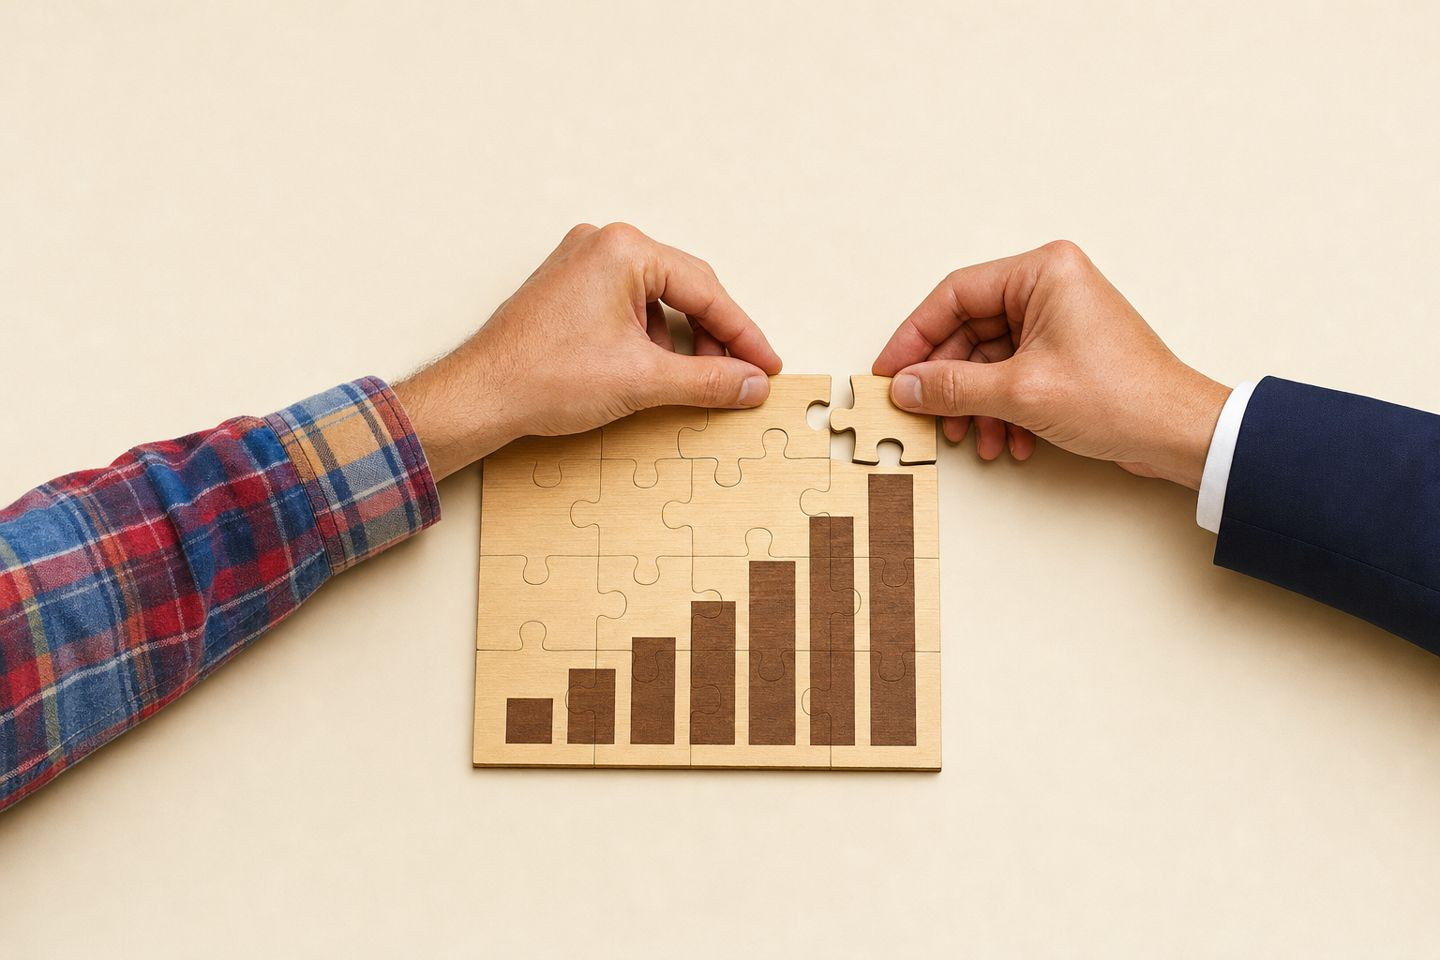
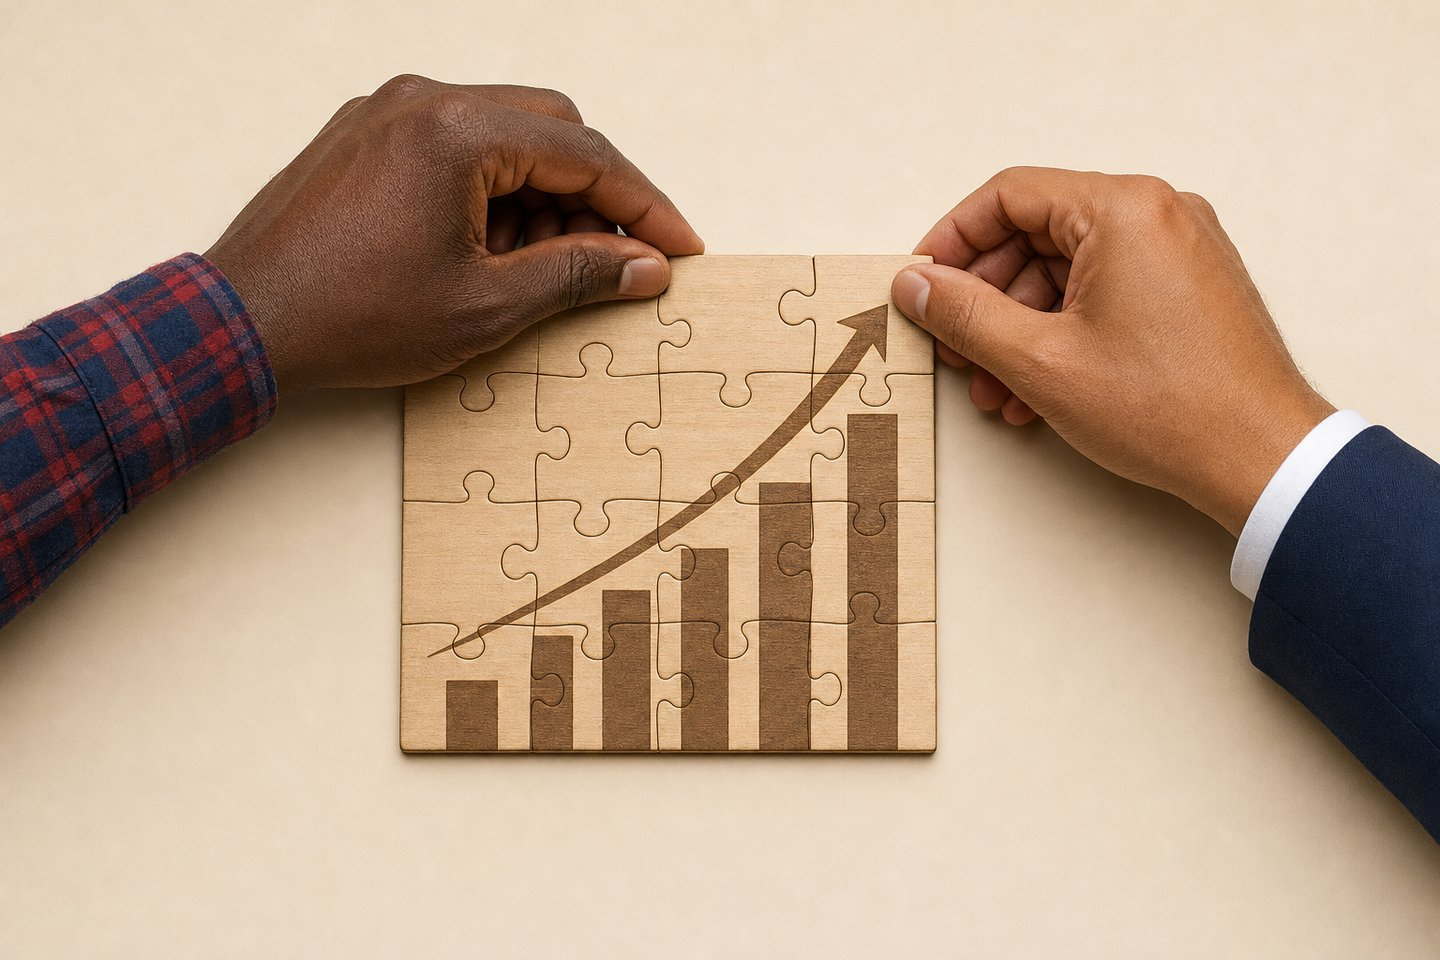
Photos : mains noires et bronzées, puzzle complet
Claude-Session: https://claude.ai/code/session_0155FUiuHG876Qi75hmEvJRt

diff --git a/index.html b/index.html
@@ -83,7 +83,7 @@
     <p class="kicker">Expertise comptable</p>
     <h2 class="sec-title">Tenir vos comptes, piloter, transmettre</h2>
     <p class="sec-lead">Tenue de votre comptabilité, comptes annuels et déclarations fiscales. Conseil sur votre rémunération de dirigeant, la création ou le rachat d'une société, la mise en place d'une holding et la transmission de votre entreprise.</p>
-    <div class="sec-photo" role="img" aria-label="Le client et l'expert-comptable posent ensemble la dernière pièce d'un puzzle en forme de graphique" style="background-image:url(img/photo-expertise.jpg)"></div>
+    <div class="sec-photo" role="img" aria-label="Le client et l'expert-comptable posent ensemble la dernière pièce d'un puzzle en forme de graphique" style="background-image:url(img/photo-expertise.jpg?v=1793545415)"></div>
     <div class="domains">
       <div class="domain"><div class="dhead"><h3>Comptabilité et fiscalité</h3></div>
         <ul><li>Comptabilité</li><li>Fiscalité</li><li>Comptes annuels</li></ul>
@@ -102,7 +102,7 @@
     <p class="kicker">Professions de santé</p>
     <h2 class="sec-title">S'installer, se structurer, préparer la retraite</h2>
     <p class="sec-lead">Médecins, dentistes, kinés, infirmiers : tenue de votre comptabilité et de vos déclarations, conseil sur votre prévoyance, votre assurance vie et votre PER. Et quand vos revenus augmentent, étude du passage en société ou d'une holding pour payer moins d'impôts.</p>
-    <div class="sec-photo" role="img" aria-label="Une clé remise à un médecin en blouse blanche" style="background-image:url(img/photo-sante.jpg)"></div>
+    <div class="sec-photo" role="img" aria-label="Une clé remise à un médecin en blouse blanche" style="background-image:url(img/photo-sante.jpg?v=1793545415)"></div>
     <div class="domains">
       <div class="domain"><div class="dhead"><h3>S'installer en libéral</h3></div>
         <ul><li>Régime fiscal</li><li>Premières cotisations</li><li>Financement</li></ul>
@@ -127,7 +127,7 @@
     <p class="kicker">Audit</p>
     <h2 class="sec-title">Des comptes vérifiés, des partenaires rassurés</h2>
     <p class="sec-lead">Certification légale des comptes des sociétés et des associations. Audits à la demande, pour un avis extérieur et indépendant sur vos comptes.</p>
-    <div class="sec-photo" role="img" aria-label="Une loupe sur une empreinte digitale faite de chiffres" style="background-image:url(img/photo-audit.jpg)"></div>
+    <div class="sec-photo" role="img" aria-label="Une loupe sur une empreinte digitale faite de chiffres" style="background-image:url(img/photo-audit.jpg?v=1793545415)"></div>
     <div class="domains domains2">
       <div class="domain"><div class="dhead"><h3>Audit légal</h3></div>
         <ul><li>Certification des comptes</li><li>Commissariat aux apports et à la fusion</li><li>Associations et organismes subventionnés</li></ul>
